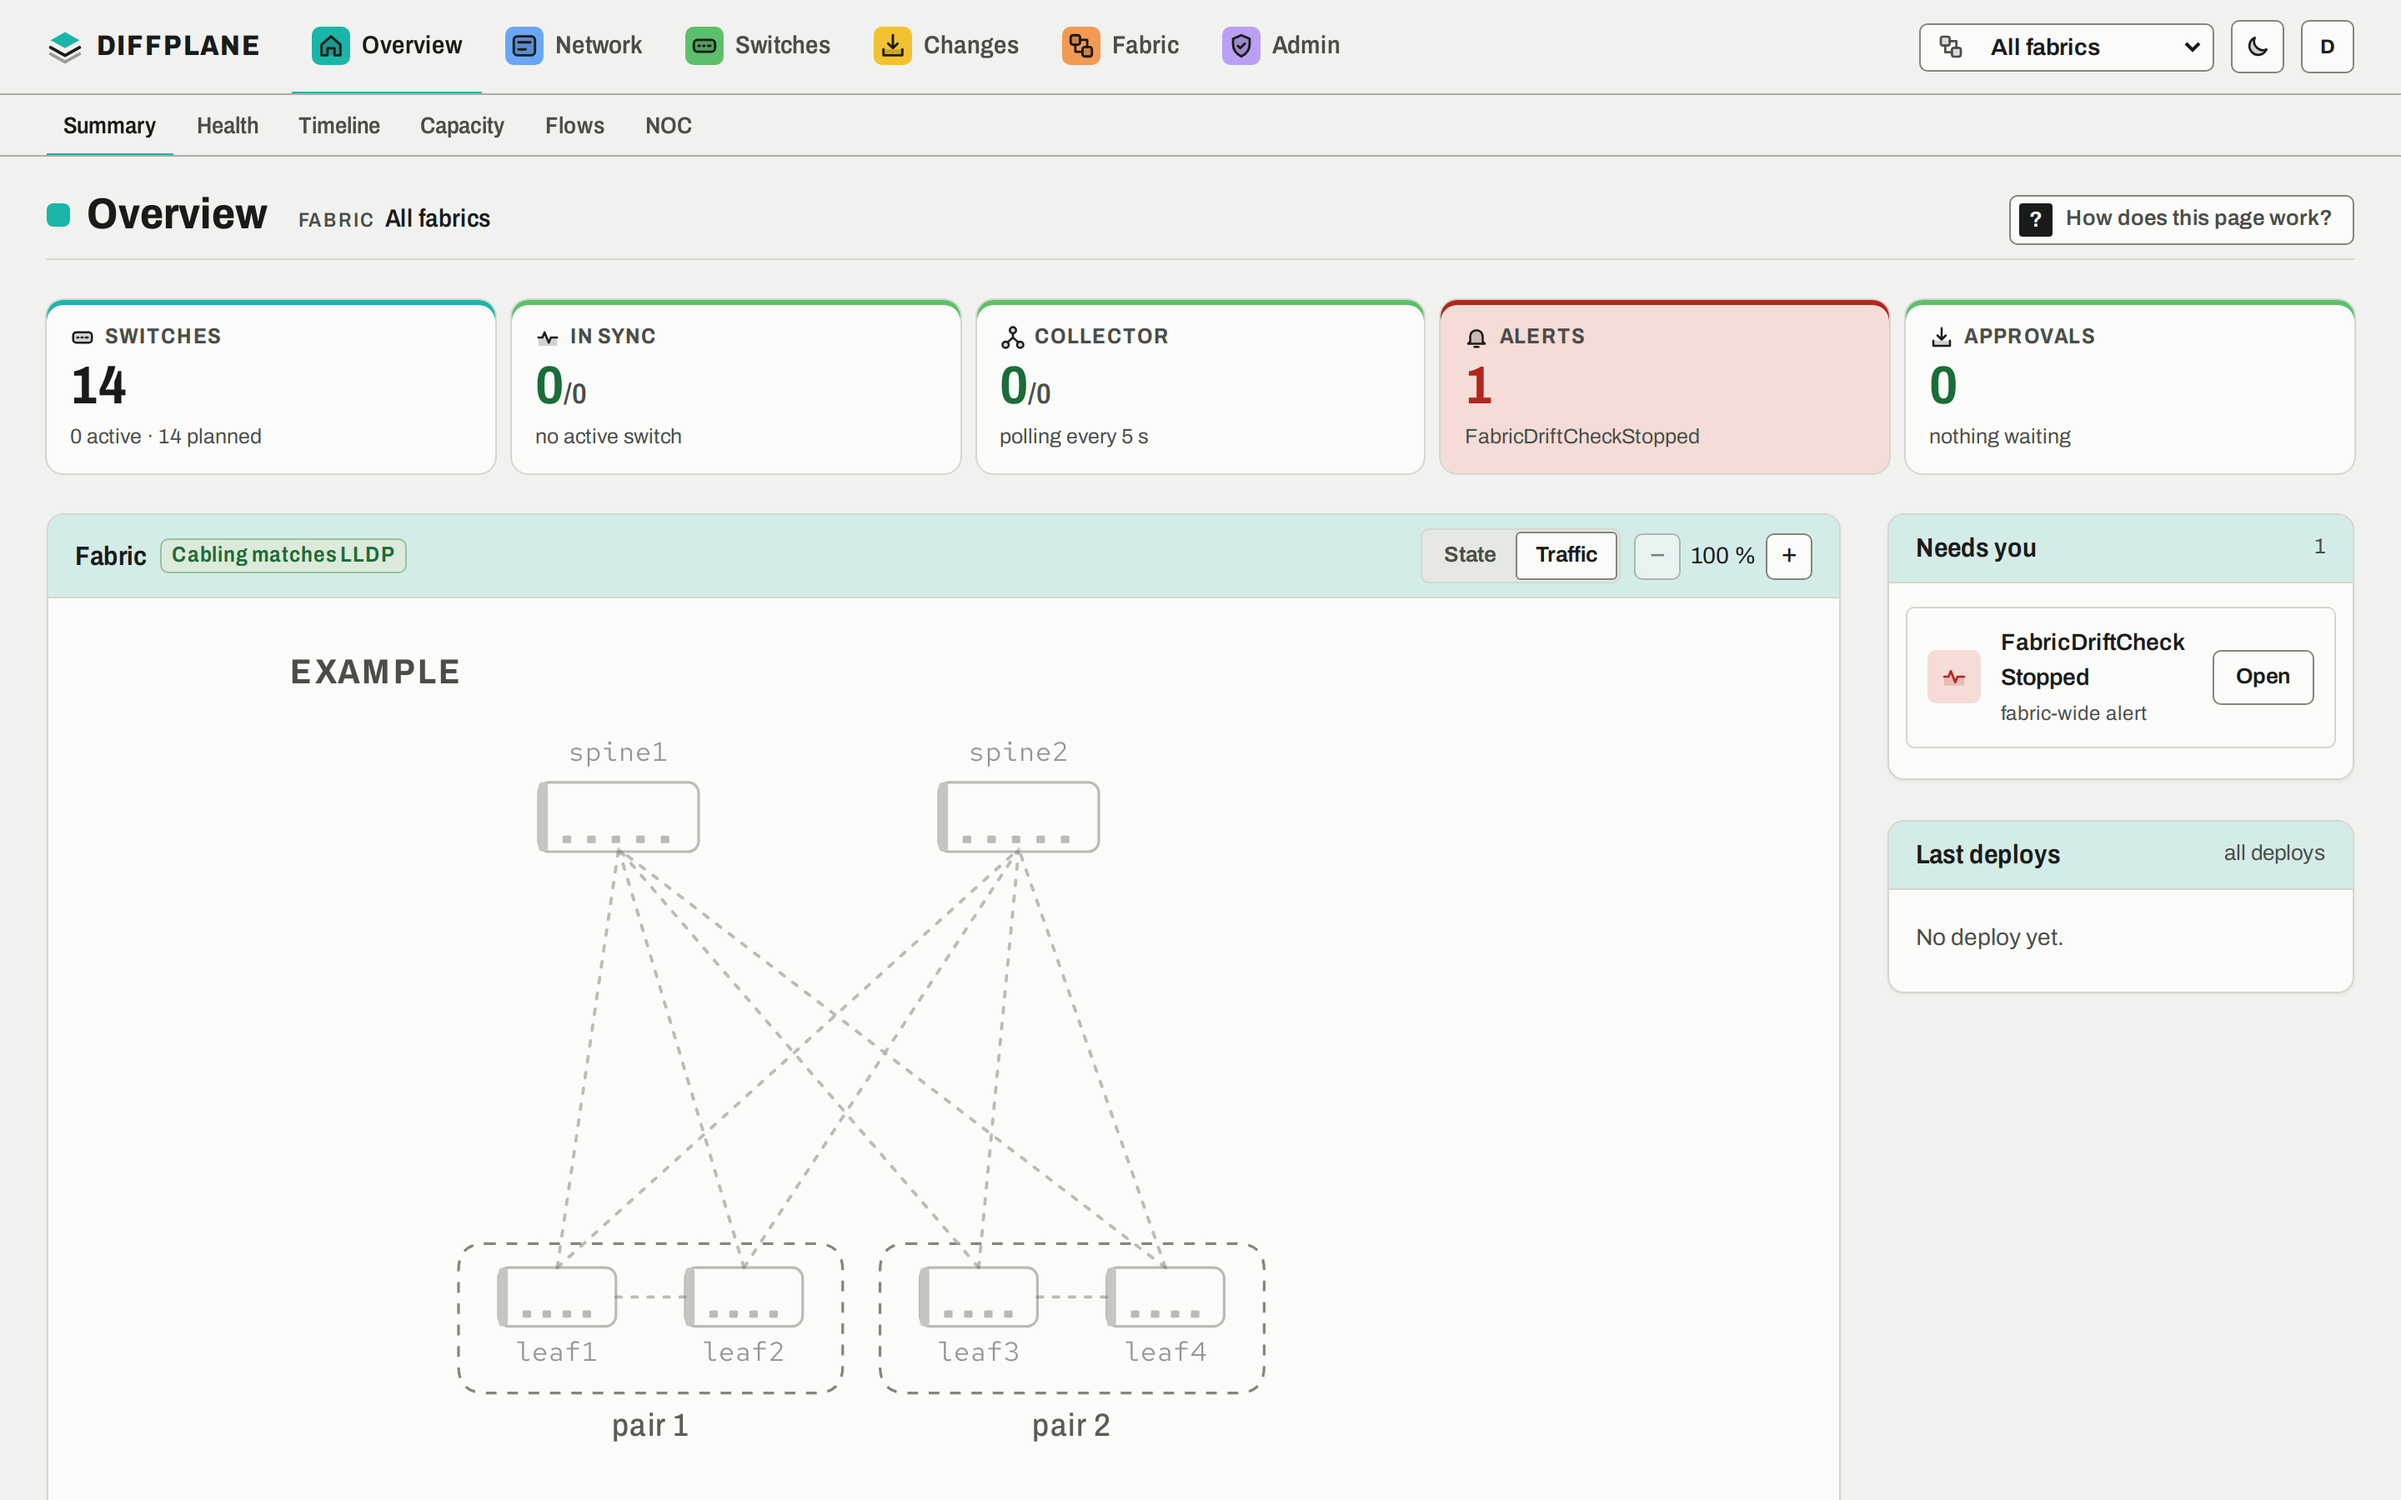
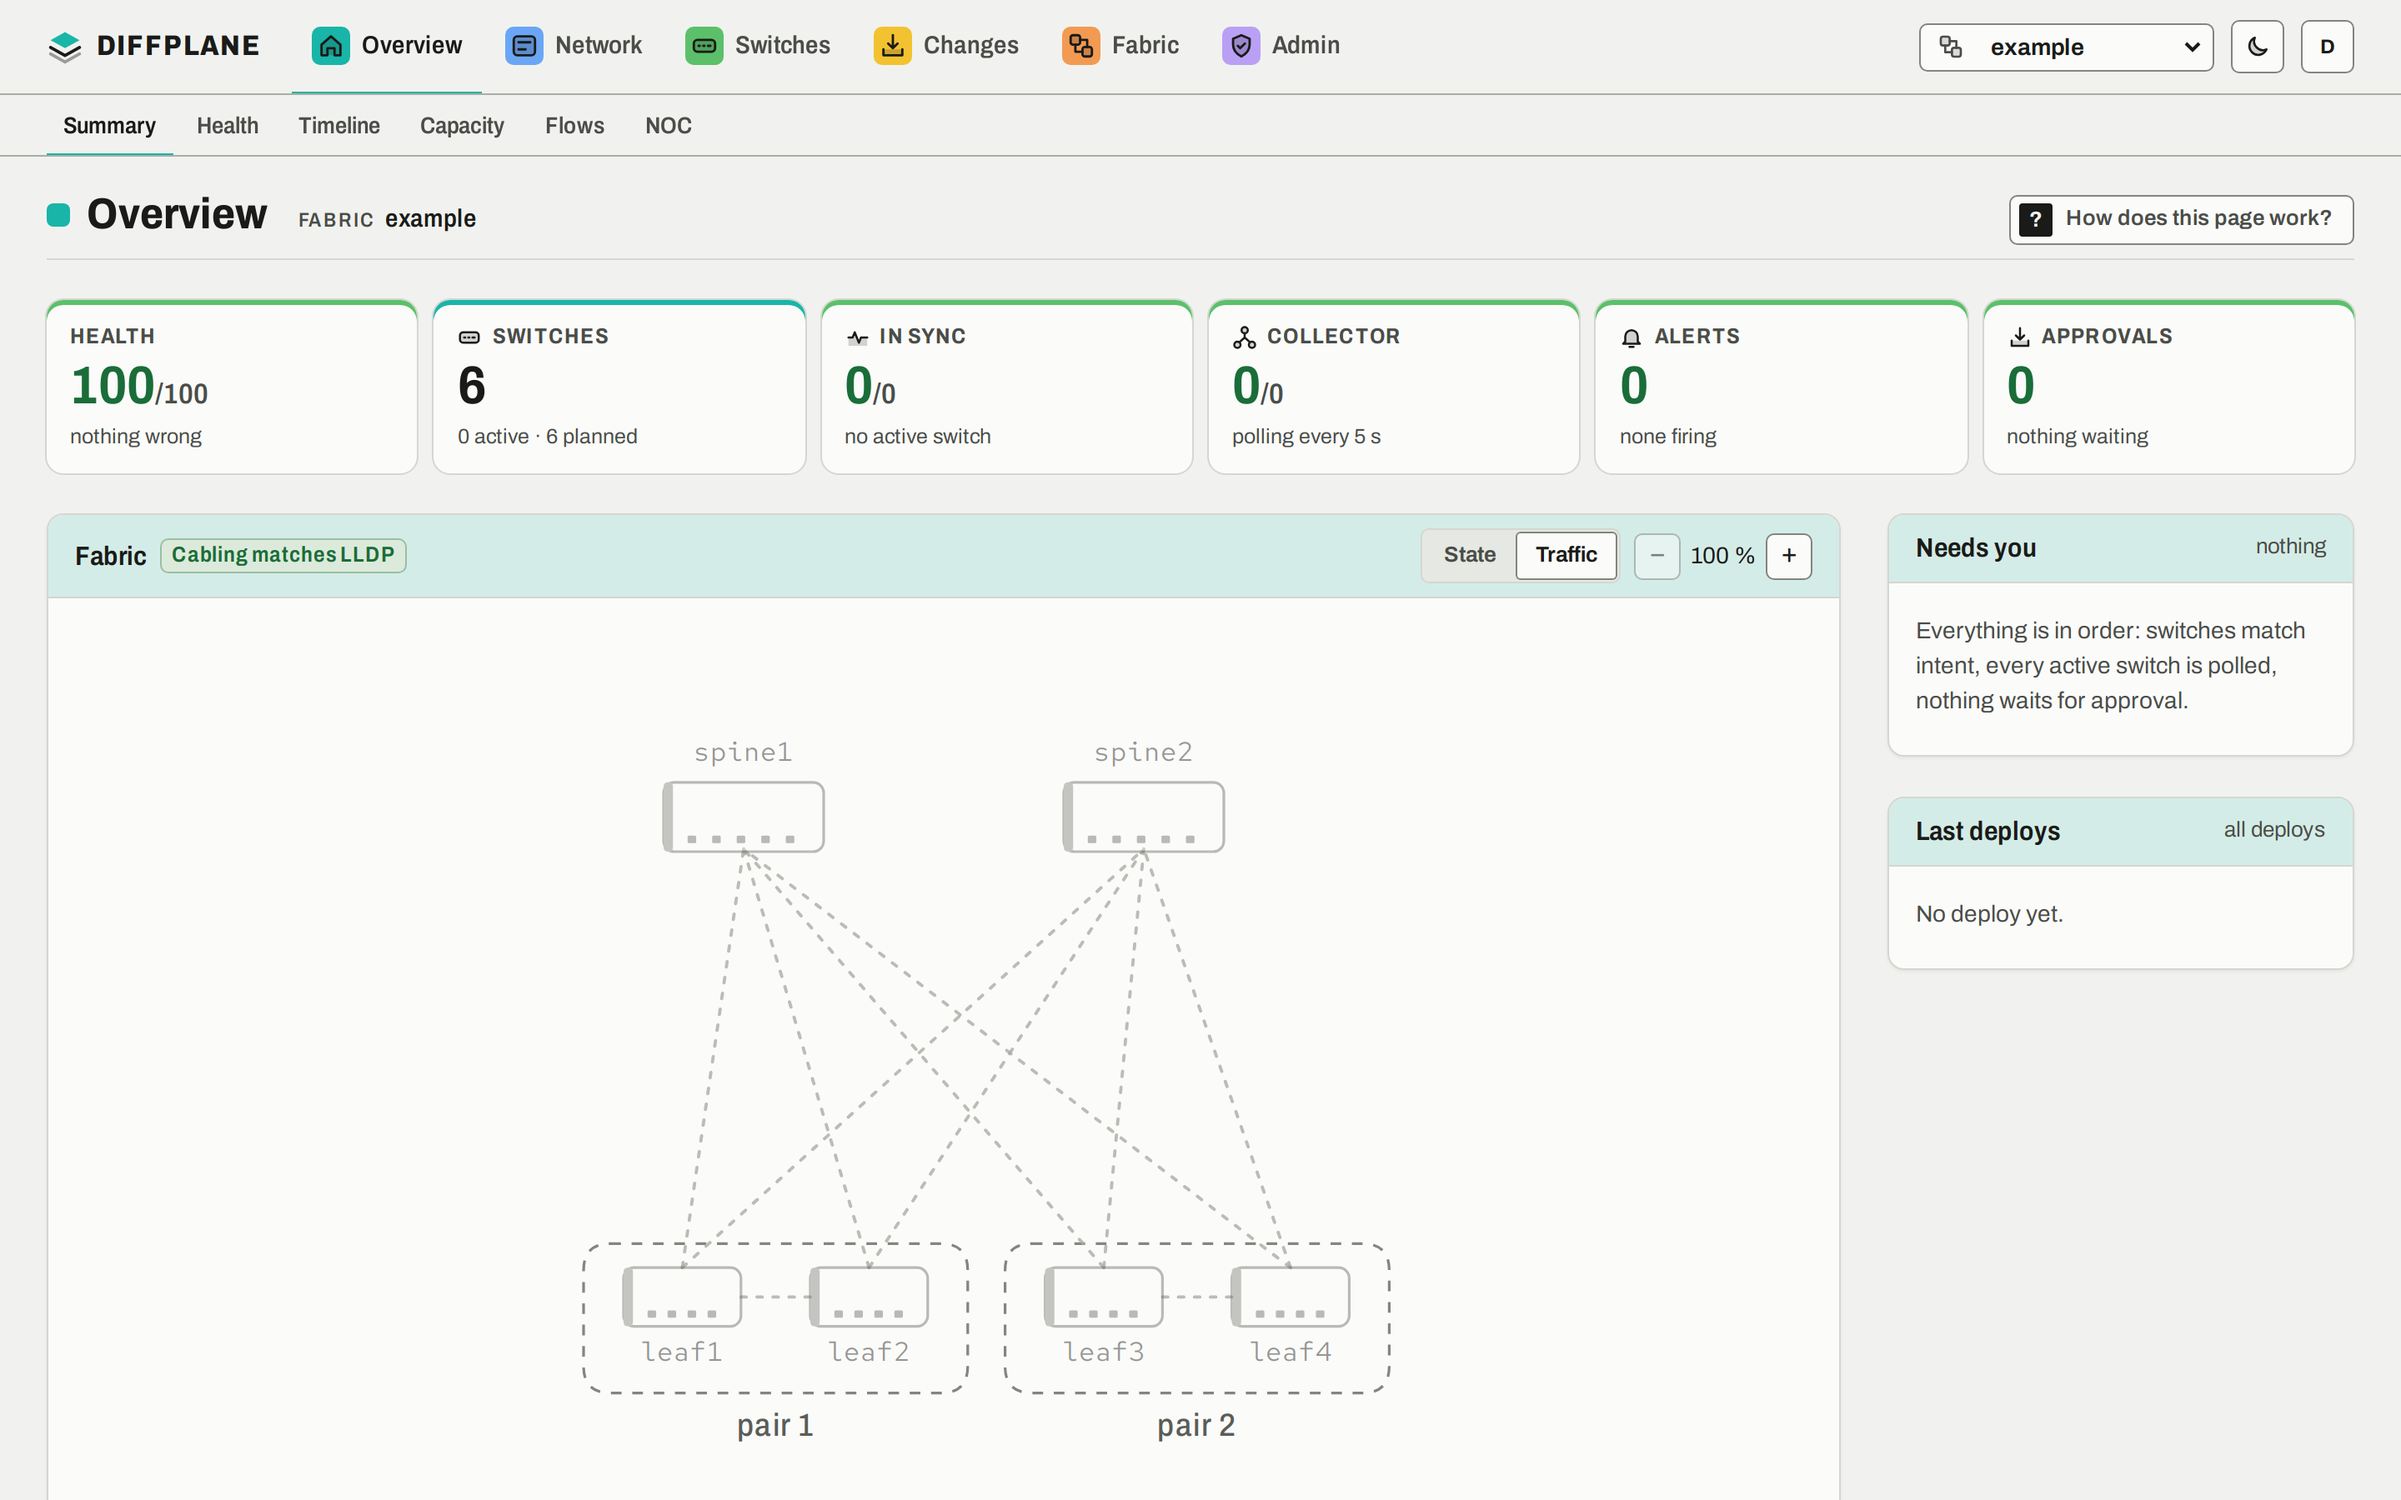
Quiet the drift alert while a fabric has no active switch; README screenshots
A new install or the demo has nothing to check, and every visitor's first sight was a red
FabricDriftCheckStopped alert. The README shows a clean overview and a leaf's front panel
with segments on its ports.

diff --git a/tests/orchestrator/test_drift.py b/tests/orchestrator/test_drift.py
@@ -1,6 +1,7 @@
 """Scheduled drift checks against a real PostgreSQL."""
 
 import asyncio
+import time
 
 import pytest
 from fastapi.testclient import TestClient
@@ -133,10 +134,20 @@ def test_last_run_is_absent_until_a_run_started():
     """An unset gauge would export 0 (1970) and fire FabricDriftCheckStopped at once."""
     from orchestrator.drift import SchedulerState
 
-    assert "fabric_drift_last_run_timestamp_seconds" not in metrics([], SchedulerState(interval=900)).decode()
-    started = metrics([], SchedulerState(interval=900, last_started=1_791_000_000.0)).decode()
+    leaf = [{"device": "leaf1", "site": "lab", "state": "unknown"}]
+    assert "fabric_drift_last_run_timestamp_seconds" not in metrics(leaf, SchedulerState(interval=900)).decode()
+    started = metrics(leaf, SchedulerState(interval=900, last_started=1_791_000_000.0)).decode()
     assert "fabric_drift_last_run_timestamp_seconds 1.791e+09" in started
     assert "fabric_drift_interval_seconds 900.0" in started
+
+
+def test_no_active_switch_is_not_a_stopped_check():
+    """A new install or the demo has no active switch: FabricDriftCheckStopped must stay quiet."""
+    from orchestrator.drift import SchedulerState
+
+    body = metrics([], SchedulerState(interval=900)).decode()
+    line = next(l for l in body.splitlines() if l.startswith("fabric_drift_last_run_timestamp_seconds "))
+    assert abs(float(line.split()[1]) - time.time()) < 60
 
 
 def test_http_drift_and_metrics(database_url, monkeypatch):

diff --git a/orchestrator/drift.py b/orchestrator/drift.py
@@ -136,7 +136,9 @@ def metrics(report: list[dict], scheduler: SchedulerState | None) -> bytes:
         Gauge("fabric_drift_interval_seconds", "Drift check interval", registry=registry).set(scheduler.interval)
         # Absent until a run has started (an unset gauge would read 0, i.e. 1970); the
         # FabricDriftCheckStopped alert treats absence as stopped (deploy/prometheus/alerts.yml).
-        if scheduler.last_started:
+        # With no active switch there is nothing to check: not a stopped check (a new install or demo).
+        last = scheduler.last_started or (None if report else time.time())
+        if last:
             Gauge("fabric_drift_last_run_timestamp_seconds", "When the last drift job started",
-                  registry=registry).set(scheduler.last_started)
+                  registry=registry).set(last)
     return generate_latest(registry)

diff --git a/README.md b/README.md
@@ -27,6 +27,8 @@ Then try the main loop: **Network › Segments**, create a segment and attach it
 **Changes › Pending** shows the patch each switch would get. `scripts/demo.sh down` stops it,
 `scripts/demo.sh reset` deletes its data.
 
+![Segments on a leaf's front panel: web, db and storage on their ports](docs/images/ports.png)
+
 ## Why
 
 Running an EVPN fabric by hand means typing the same VXLAN, VPN-instance and BGP blocks on every
